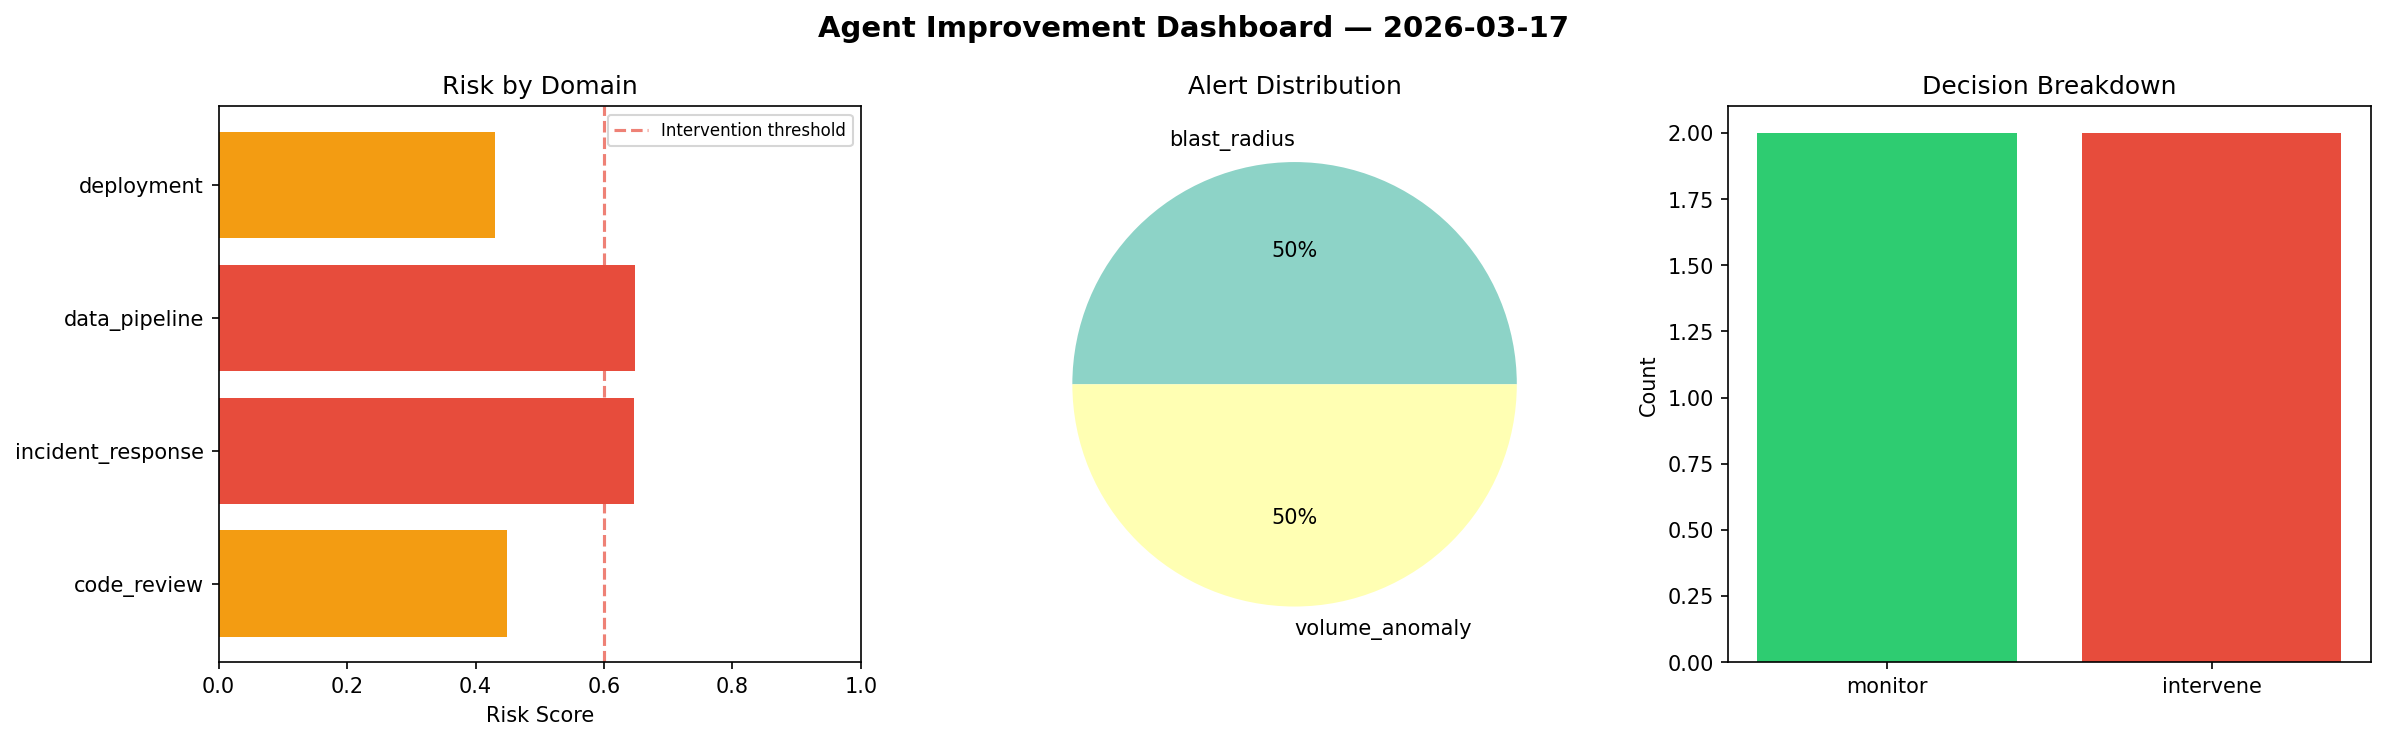
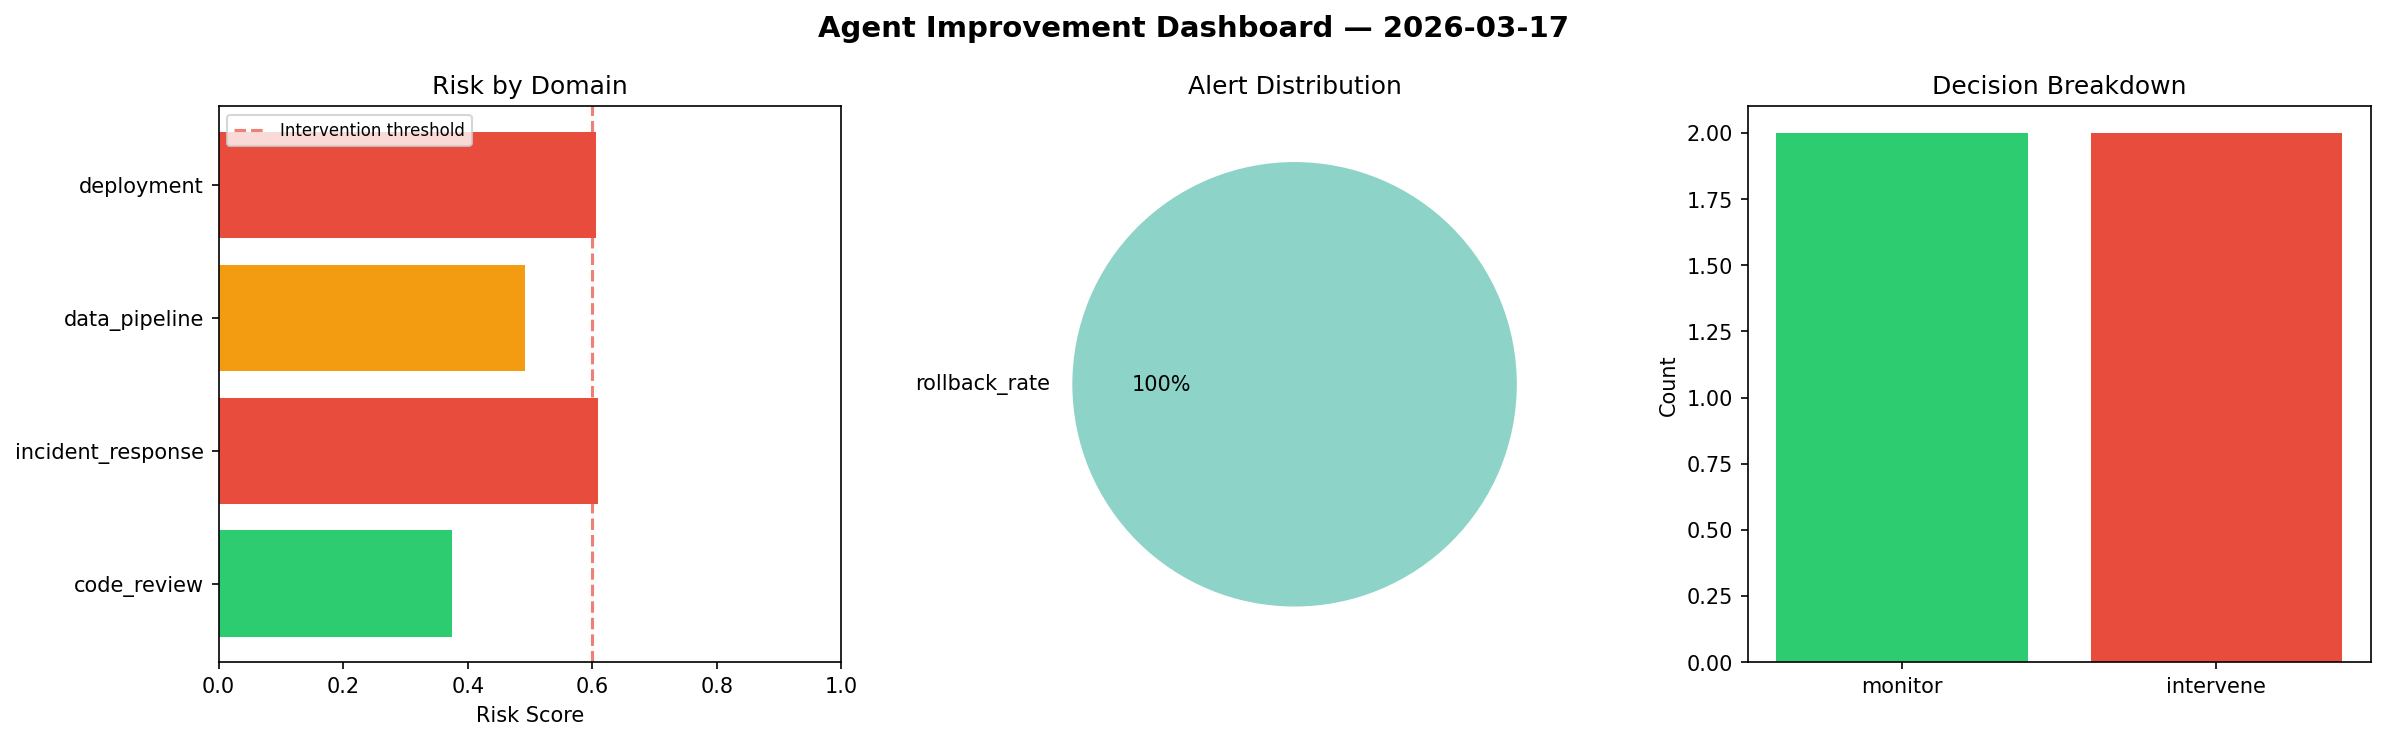
agent-improvement: daily cycle 2026-03-17T09:08

diff --git a/logs/2026-03-17.md b/logs/2026-03-17.md
@@ -1,6 +1,6 @@
 # Agent Improvement Report — 2026-03-17
 
-**Cycle ID:** `9a9cf057` | **Avg Risk:** 0.5437 | **Interventions:** 2/4
+**Cycle ID:** `97fe8bc2` | **Avg Risk:** 0.5205 | **Interventions:** 2/4
 
 ![Dashboard](2026-03-17_dashboard.png)
 
@@ -10,18 +10,18 @@
 
 | Domain | Risk Score | Decision | Alerts |
 |--------|-----------|----------|--------|
-| code_review | 0.4494 | monitor | none |
-| incident_response | 0.6465 | intervene | blast_radius |
-| data_pipeline | 0.6486 | intervene | volume_anomaly |
-| deployment | 0.4304 | monitor | none |
+| code_review | 0.3751 | monitor | none |
+| incident_response | 0.6095 | intervene | none |
+| data_pipeline | 0.4918 | monitor | none |
+| deployment | 0.6055 | intervene | rollback_rate |
 
 ## Delta vs Yesterday
 
 | Domain | Today | Yesterday | Change |
 |--------|-------|-----------|--------|
-| code_review | 0.4494 | 0.5092 | 📉 -11.7% |
-| incident_response | 0.6465 | 0.2854 | 📈 126.5% |
-| data_pipeline | 0.6486 | 0.3543 | 📈 83.1% |
-| deployment | 0.4304 | 0.4071 | 📈 5.7% |
+| code_review | 0.3751 | 0.5092 | 📉 -26.3% |
+| incident_response | 0.6095 | 0.2854 | 📈 113.6% |
+| data_pipeline | 0.4918 | 0.3543 | 📈 38.8% |
+| deployment | 0.6055 | 0.4071 | 📈 48.7% |
 
-**Refinement:** `{'adjustment': 'maintain', 'trend': 'improving', 'window': 4}`
+**Refinement:** `{'adjustment': 'tighten_thresholds', 'trend': 'degrading', 'window': 4}`
